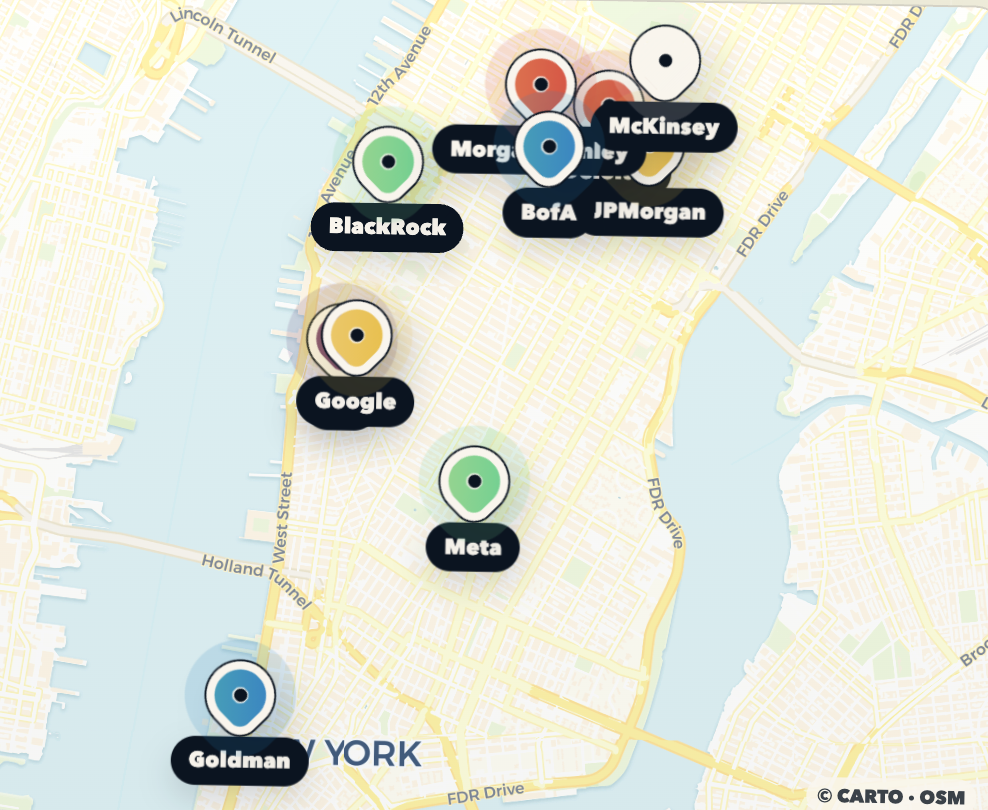
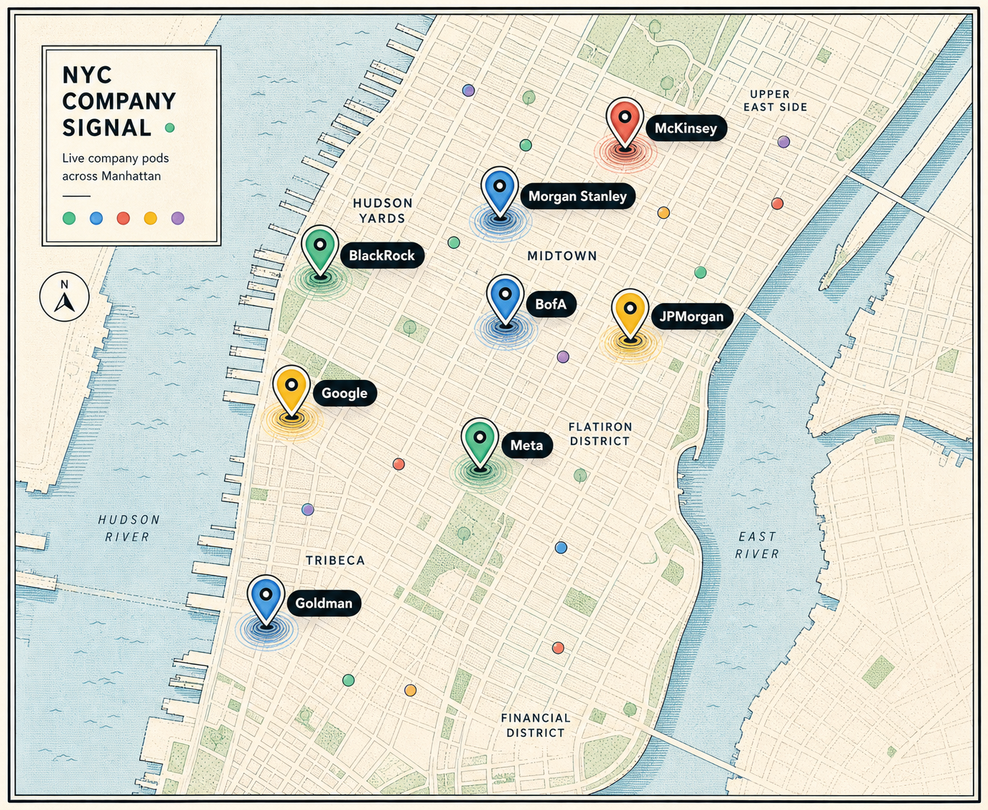
update images

diff --git a/components/LandingPage.tsx b/components/LandingPage.tsx
@@ -14,7 +14,6 @@ import {
   useMemo,
   useRef,
   useState,
-  type CSSProperties,
   type FormEvent,
 } from "react";
 import {
@@ -713,38 +712,12 @@ export default function LandingPage() {
             <article className="signal-card faction-card">
               <span className="card-kicker">Company Poker</span>
               <h3>Ante up and outplay the other intern desks.</h3>
-              <div className="faction-arena" aria-hidden="true">
-                <div className="competition-table">
-                  <div className="table-center">
-                    <span>Table leader</span>
-                    <strong>JPM owns the pot</strong>
-                  </div>
-                  <div className="chip-stack stack-jpm">
-                    <i />
-                    <i />
-                    <i />
-                    <b>JPM</b>
-                    <small>$3.1K</small>
-                  </div>
-                  <div className="chip-stack stack-dlt">
-                    <i />
-                    <i />
-                    <b>DLT</b>
-                    <small>$2.7K</small>
-                  </div>
-                  <div className="chip-stack stack-gs">
-                    <i />
-                    <i />
-                    <b>GS</b>
-                    <small>$2.2K</small>
-                  </div>
-                  <div className="chip-stack stack-blk">
-                    <i />
-                    <b>BLK</b>
-                    <small>$1.9K</small>
-                  </div>
-                </div>
-              </div>
+              <figure className="feature-art-frame">
+                <img
+                  src="/company-poker.png?v=5"
+                  alt="Illustrated company poker table with readable company chip stacks"
+                />
+              </figure>
               <p>
                 Join your company table, stack chips with other interns, and win
                 the week.
@@ -754,46 +727,12 @@ export default function LandingPage() {
             <article className="signal-card leaderboard-card">
               <span className="card-kicker">Crew Leaderboard</span>
               <h3>Work with fellow interns and climb to the top.</h3>
-              <div className="faction-board">
-                <div>
-                  <span>JPMorgan</span>
-                  <i style={{ "--w": "86%" } as CSSProperties} />
-                  <b>86</b>
-                </div>
-                <div>
-                  <span>Deloitte</span>
-                  <i style={{ "--w": "74%" } as CSSProperties} />
-                  <b>74</b>
-                </div>
-                <div>
-                  <span>Goldman</span>
-                  <i style={{ "--w": "62%" } as CSSProperties} />
-                  <b>62</b>
-                </div>
-                <div>
-                  <span>BlackRock</span>
-                  <i style={{ "--w": "55%" } as CSSProperties} />
-                  <b>55</b>
-                </div>
-              </div>
-              <div className="metric-grid">
-                <div>
-                  <span>Hangouts</span>
-                  <strong>42</strong>
-                </div>
-                <div>
-                  <span>Coffee chats</span>
-                  <strong>118</strong>
-                </div>
-                <div>
-                  <span>Lunch crews</span>
-                  <strong>27</strong>
-                </div>
-                <div>
-                  <span>Invites sent</span>
-                  <strong>{livePulse.interns}</strong>
-                </div>
-              </div>
+              <figure className="feature-art-frame">
+                <img
+                  src="/crew-leaderboard.png?v=3"
+                  alt="Illustrated crew leaderboard dashboard with company rankings"
+                />
+              </figure>
               <p>
                 Rally your pod through hangouts, coffee chats, and small plans
                 that move your crew up the board.
@@ -803,23 +742,12 @@ export default function LandingPage() {
             <article className="signal-card quest-card">
               <span className="card-kicker">Quest Sparks</span>
               <h3>Find plans without awkward group chats.</h3>
-              <div className="quest-stack">
-                <div>
-                  <span>Tonight</span>
-                  <strong>Cross-company coffee walk</strong>
-                  <small>Midtown · 18 interested</small>
-                </div>
-                <div>
-                  <span>Saturday</span>
-                  <strong>Lunch roulette</strong>
-                  <small>Flatiron · 9 matched</small>
-                </div>
-                <div>
-                  <span>Unlock</span>
-                  <strong>Invite 2 interns to open your pod</strong>
-                  <small>Company push</small>
-                </div>
-              </div>
+              <figure className="feature-art-frame quest-art-frame">
+                <img
+                  src="/quest-sparks.png"
+                  alt="Illustrated quest board with coffee, lunch, and invite unlock routes"
+                />
+              </figure>
               <p>
                 Walk into week one with easy invites, small plans, and people to
                 meet before the internship gets busy.

diff --git a/styles.css b/styles.css
@@ -250,6 +250,11 @@ textarea {
   width: 100%;
 }
 
+.signal-map.static-map-frame .static-map-image {
+  background: color-mix(in oklch, var(--blue) 8%, var(--paper));
+  object-fit: contain;
+}
+
 .signal-map.is-dragging,
 .mini-signal-map.is-dragging {
   cursor: grabbing;
@@ -812,6 +817,28 @@ h1 {
   justify-self: center;
   max-width: 760px;
   width: 100%;
+}
+
+.feature-art-frame {
+  aspect-ratio: 16 / 9;
+  background: color-mix(in oklch, var(--paper) 94%, var(--blue));
+  border: 1px solid color-mix(in oklch, var(--paper) 28%, transparent);
+  border-radius: var(--radius);
+  box-shadow: 0 1rem 1.4rem color-mix(in oklch, black 18%, transparent);
+  margin: 0;
+  overflow: hidden;
+}
+
+.feature-art-frame img {
+  display: block;
+  height: 100%;
+  object-fit: cover;
+  width: 100%;
+}
+
+.quest-art-frame {
+  border-color: color-mix(in oklch, var(--ink) 18%, transparent);
+  box-shadow: 5px 5px 0 var(--ink);
 }
 
 .mini-signal-map {